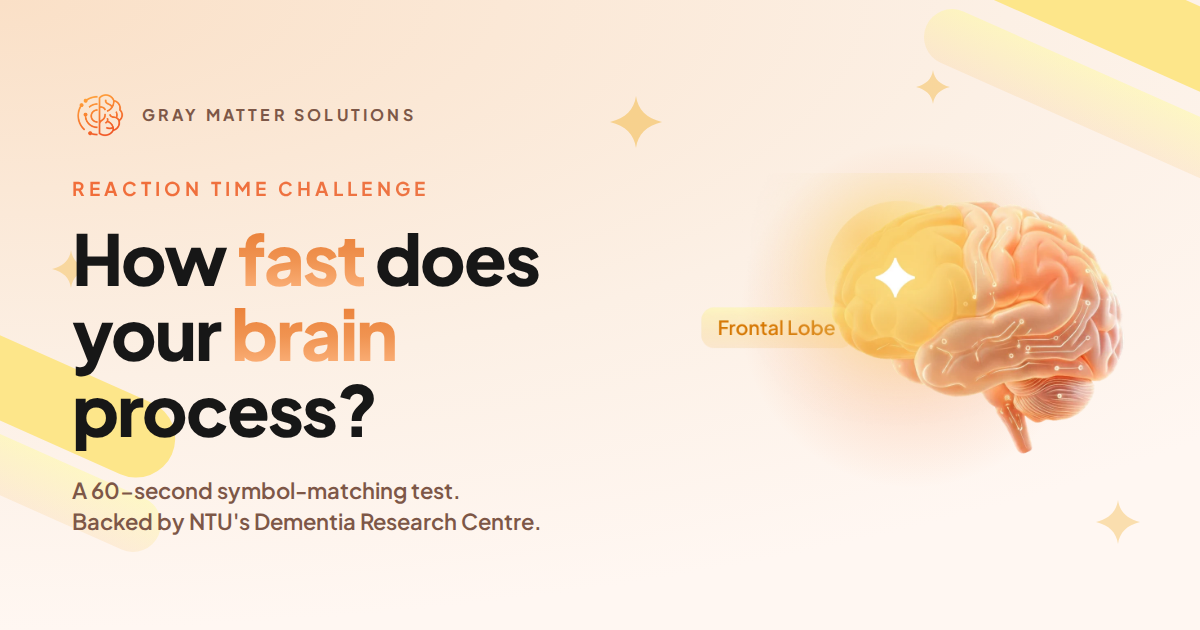
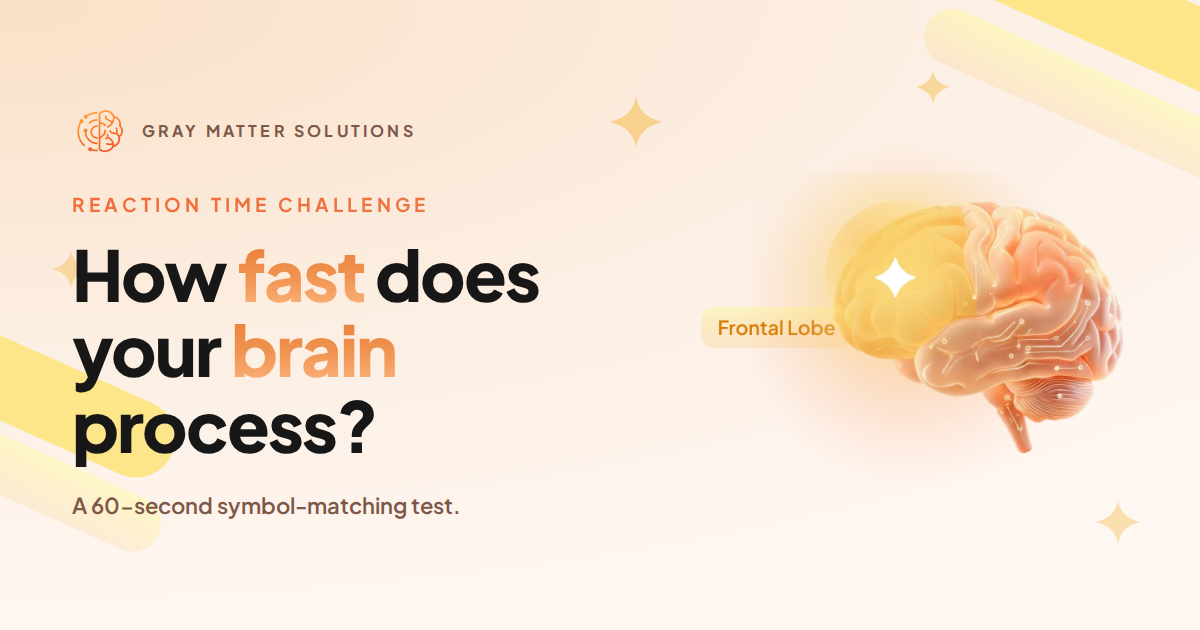
Trim the v3 thumbnail and share poster
- Thumbnail and OG description drop the NTU Dementia Research Centre line;
  the subtitle is just the 60-second pitch.
- Share poster: the stat card carries only the rank (no symbols column), and
  the URL text under the QR is gone - the QR alone carries the link. It (and
  the share caption) now always point at the production /event-v3 URL, same
  reasoning as the TV board QR.

Claude-Session: https://claude.ai/code/session_01QvGX8BhKib4nWXipe3txCo

Changed region(s): [[0.0617, 0.2714, 0.4625, 0.8444], [0.0617, 0.1508, 0.3392, 0.2413]]

diff --git a/src/components/screens/event3/Event3GameResult.tsx b/src/components/screens/event3/Event3GameResult.tsx
@@ -1,6 +1,6 @@
 "use client";
 
-import { useEffect, useMemo, useRef, useState } from "react";
+import { useEffect, useRef, useState } from "react";
 import { animate, motion, useReducedMotion } from "framer-motion";
 import { QRCodeCanvas } from "qrcode.react";
 import { COPY } from "@/config/copy";
@@ -12,6 +12,13 @@ import { BrainHero } from "./BrainHero";
 import { ProcessingSpeedPopup } from "./ProcessingSpeedPopup";
 import { QuestionCircleIcon, RetryIcon, ShareIcon } from "./icons";
 import { ctaInverseClass, emberLabelGradient, emberTextGradient } from "./ui";
+
+/**
+ * Where the share card's QR and caption send people. Absolute on purpose
+ * (same reasoning as the TV board): the screen may run from localhost or a
+ * preview deploy, but a scanned phone must always land on production.
+ */
+const PLAY_URL = "https://brainhealthcheck.vercel.app/event-v3";
 
 interface Event3GameResultProps {
   name?: string;
@@ -62,14 +69,6 @@ export function Event3GameResult({
   const [popupOpen, setPopupOpen] = useState(false);
   const qrHostRef = useRef<HTMLDivElement>(null);
   const cardRef = useRef<Blob | null>(null);
-
-  const playUrl = useMemo(
-    () =>
-      typeof window !== "undefined"
-        ? `${window.location.origin}/event-v3`
-        : "https://brainhealthcheck.vercel.app/event-v3",
-    [],
-  );
 
   // Live standings: the fastest so far and your rank.
   useEffect(() => {
@@ -133,7 +132,7 @@ export function Event3GameResult({
         timeMs,
         rank: standing.rank ?? undefined,
         total: standing.total ?? undefined,
-        url: playUrl,
+        url: PLAY_URL,
         qrCanvas,
         theme: "daylight",
       });
@@ -143,7 +142,7 @@ export function Event3GameResult({
       cancelled = true;
       clearTimeout(t);
     };
-  }, [name, timeMs, standing.rank, standing.total, playUrl]);
+  }, [name, timeMs, standing.rank, standing.total]);
 
   const share = async () => {
     if (sharing || timeMs == null) return;
@@ -165,7 +164,7 @@ export function Event3GameResult({
       const outcome = await shareBlob(
         cardRef.current,
         text,
-        playUrl,
+        PLAY_URL,
         "brain-speed.png",
       );
       setShareNote(
@@ -189,7 +188,7 @@ export function Event3GameResult({
     <Event3Shell pills sparkles>
       {/* Hidden QR used by the canvas share card. */}
       <div ref={qrHostRef} className="hidden" aria-hidden>
-        <QRCodeCanvas value={playUrl} size={190} marginSize={0} />
+        <QRCodeCanvas value={PLAY_URL} size={190} marginSize={0} />
       </div>
 
       <motion.div

diff --git a/src/lib/shareCard.ts b/src/lib/shareCard.ts
@@ -387,8 +387,8 @@ function drawDaylightCard(
   ctx.roundRect(W / 2 - 110, 596, 220, 10, 5);
   ctx.fill();
 
-  // Stat card: rank / symbols.
-  const cw = 760;
+  // Stat card: the player's rank.
+  const cw = 520;
   const ch = 150;
   const cx = (W - cw) / 2;
   const cy = 660;
@@ -405,34 +405,24 @@ function drawDaylightCard(
   ctx.lineWidth = 2;
   ctx.stroke();
 
-  const colA = cx + cw * 0.27;
-  const colB = cx + cw * 0.73;
   ctx.fillStyle = "#f16d39";
   ctx.font = `700 22px ${jakarta}`;
   ctx.letterSpacing = "3px";
-  ctx.fillText("YOUR RANK", colA, cy + 56);
-  ctx.fillText("SYMBOLS", colB, cy + 56);
+  ctx.fillText("YOUR RANK", W / 2, cy + 56);
   ctx.letterSpacing = "0px";
   ctx.fillStyle = "#171717";
   ctx.font = `800 52px ${jakarta}`;
   ctx.fillText(
     opts.rank && opts.total ? `#${opts.rank} / ${opts.total}` : "-",
-    colA,
+    W / 2,
     cy + 114,
   );
-  ctx.fillText("20", colB, cy + 114);
-  ctx.strokeStyle = "rgba(125,87,71,0.22)";
-  ctx.lineWidth = 2;
-  ctx.beginPath();
-  ctx.moveTo(cx + cw / 2, cy + 34);
-  ctx.lineTo(cx + cw / 2, cy + ch - 34);
-  ctx.stroke();
 
   // Ember bridge block: the dare, the QR and the link.
   const bw = 880;
   const bx = (W - bw) / 2;
   const by = 850;
-  const bh = 425;
+  const bh = 400;
   const ember = ctx.createLinearGradient(0, by, 0, by + bh);
   ember.addColorStop(0, "#e8782e");
   ember.addColorStop(0.5, "#f09452");
@@ -455,11 +445,7 @@ function drawDaylightCard(
   ctx.fillText("Try it for yourself here:", W / 2, by + 124);
 
   // Drawn at the QR canvas's own 190px so the modules stay pixel-crisp.
-  drawQr(ctx, opts.qrCanvas, W / 2, by + 252, 190);
-
-  ctx.fillStyle = "#fff4ec";
-  ctx.font = `700 30px ${jakarta}`;
-  ctx.fillText(opts.url.replace(/^https?:\/\//, ""), W / 2, by + 382);
+  drawQr(ctx, opts.qrCanvas, W / 2, by + 248, 190);
 
   ctx.fillStyle = "#a98d80";
   ctx.font = `500 24px ${jakarta}`;

diff --git a/app/event-v3/page.tsx b/app/event-v3/page.tsx
@@ -10,7 +10,7 @@ export const metadata: Metadata = {
   openGraph: {
     title: "Reaction Time Challenge",
     description:
-      "How fast does your brain process? A 60-second symbol-matching test, backed by NTU's Dementia Research Centre.",
+      "How fast does your brain process? A 60-second symbol-matching test.",
     images: ["/og-event-v3.png"],
   },
 };
